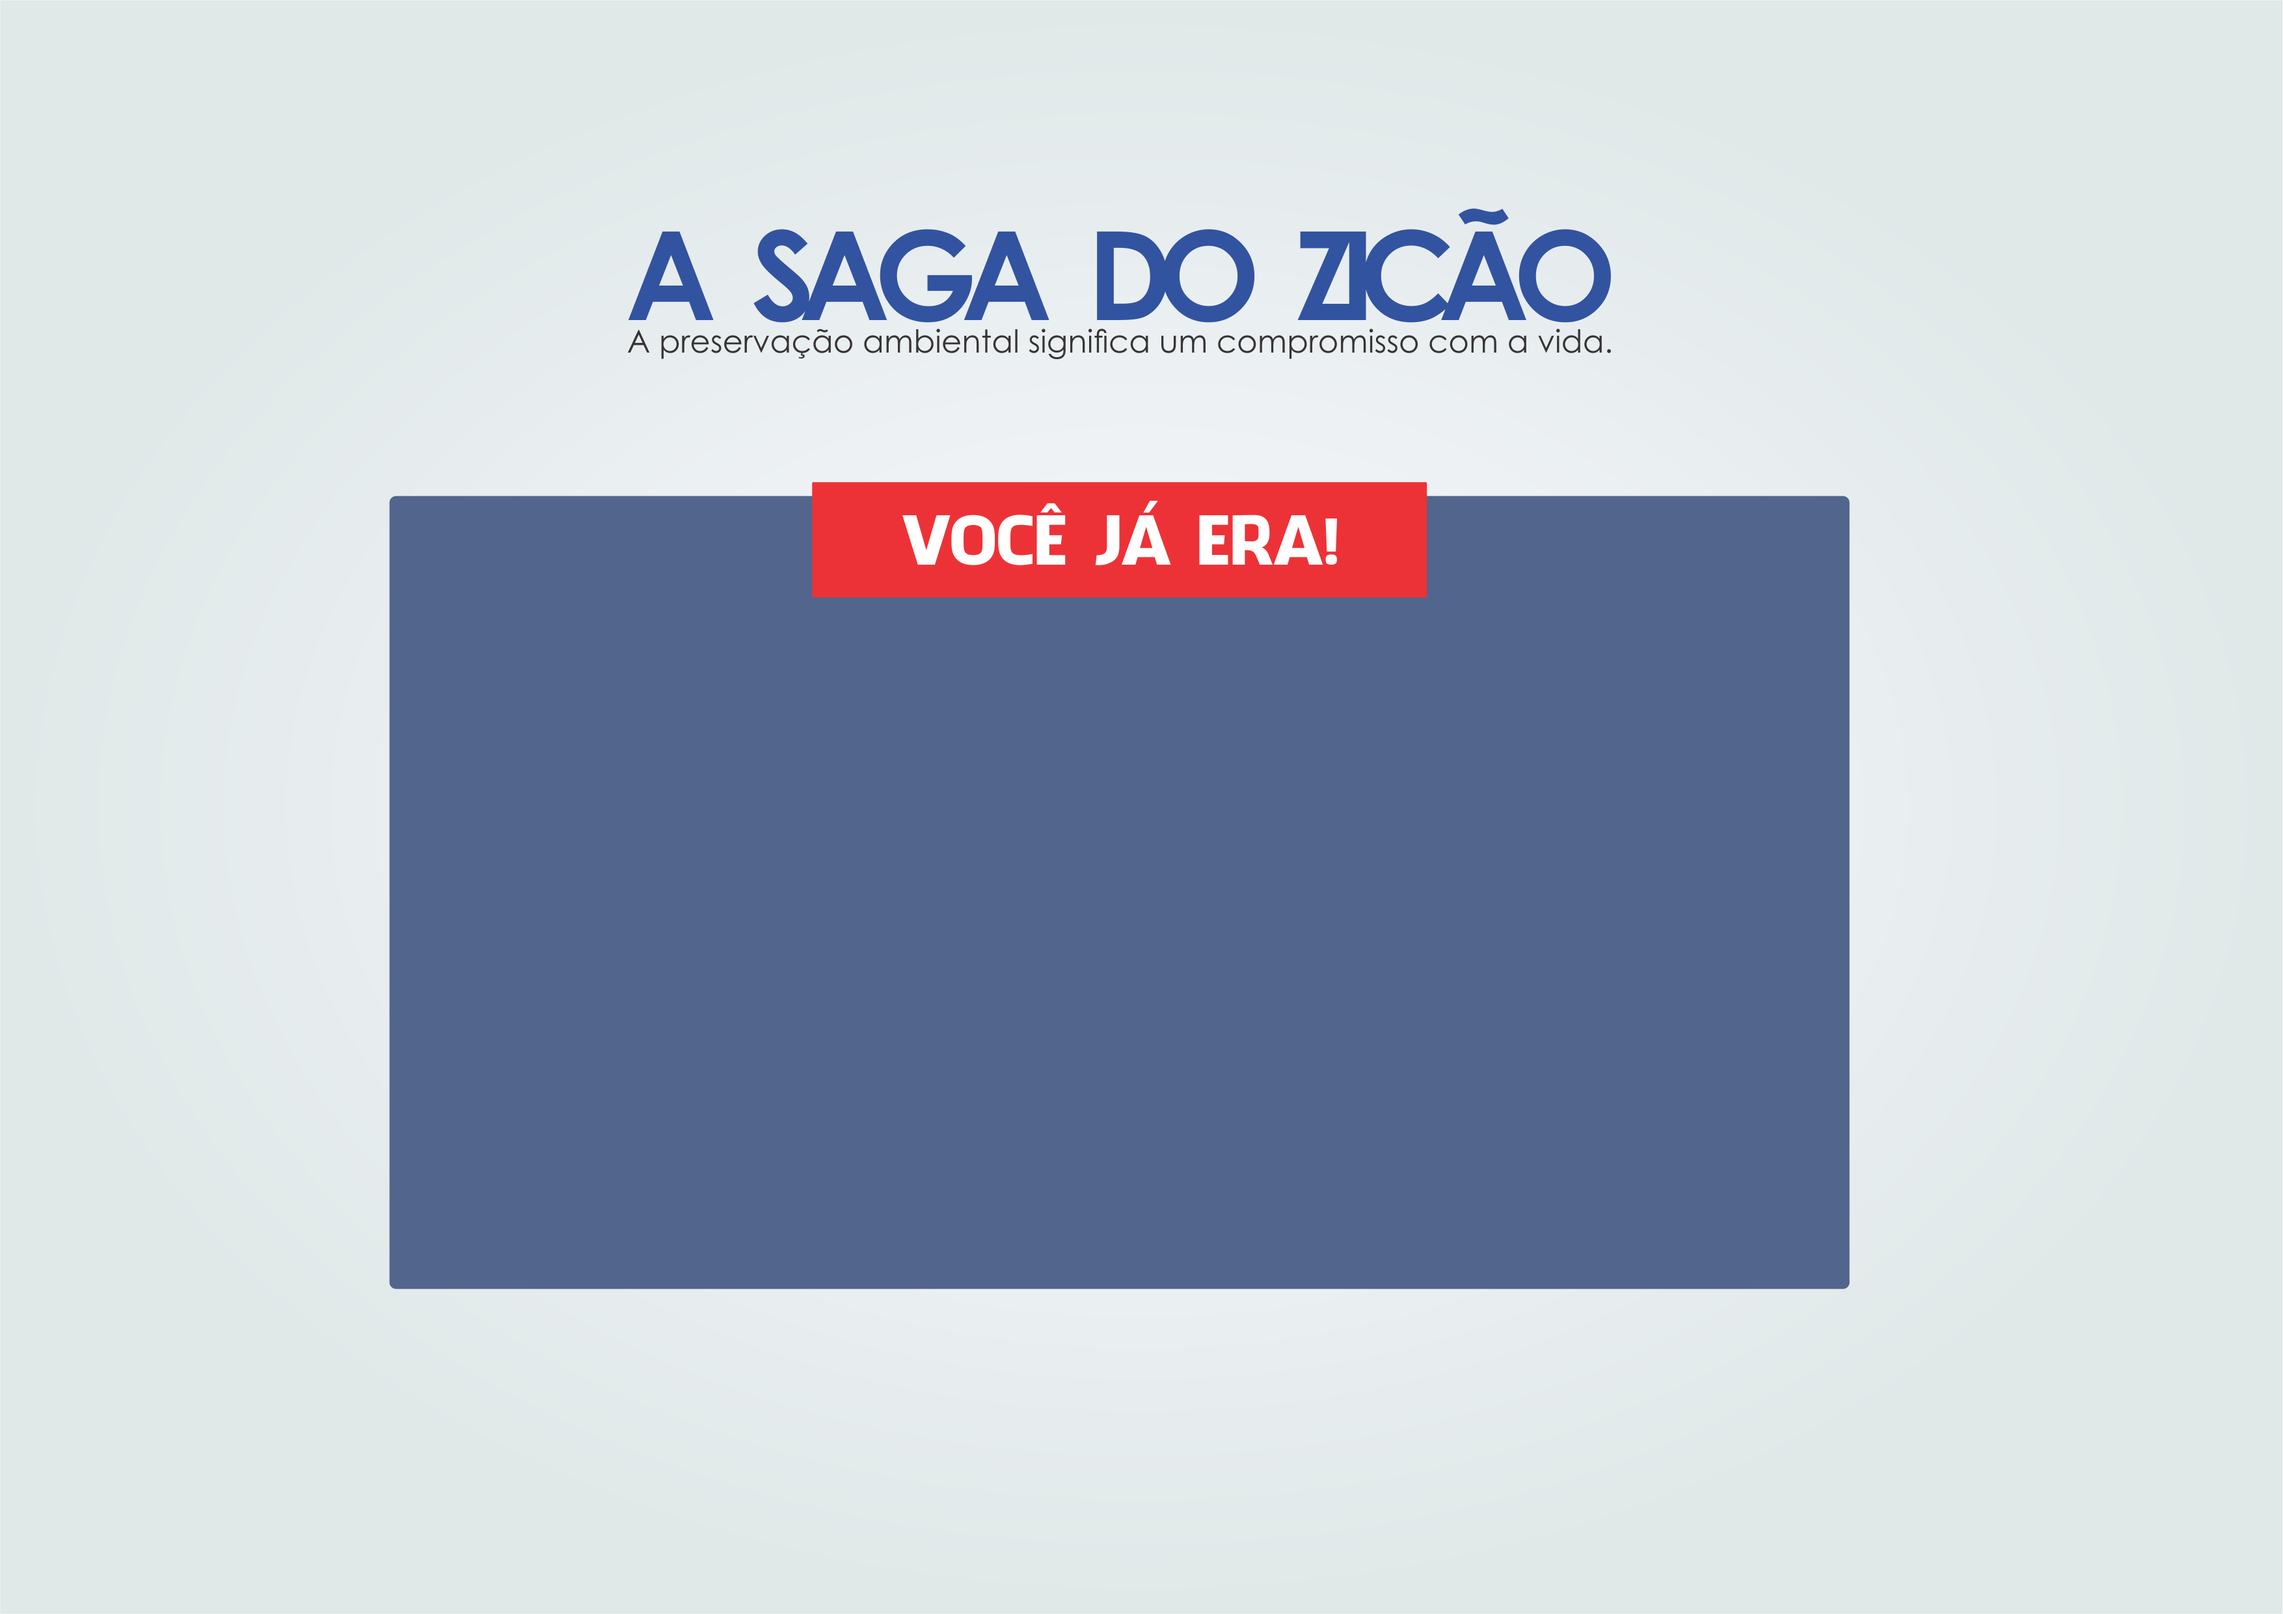
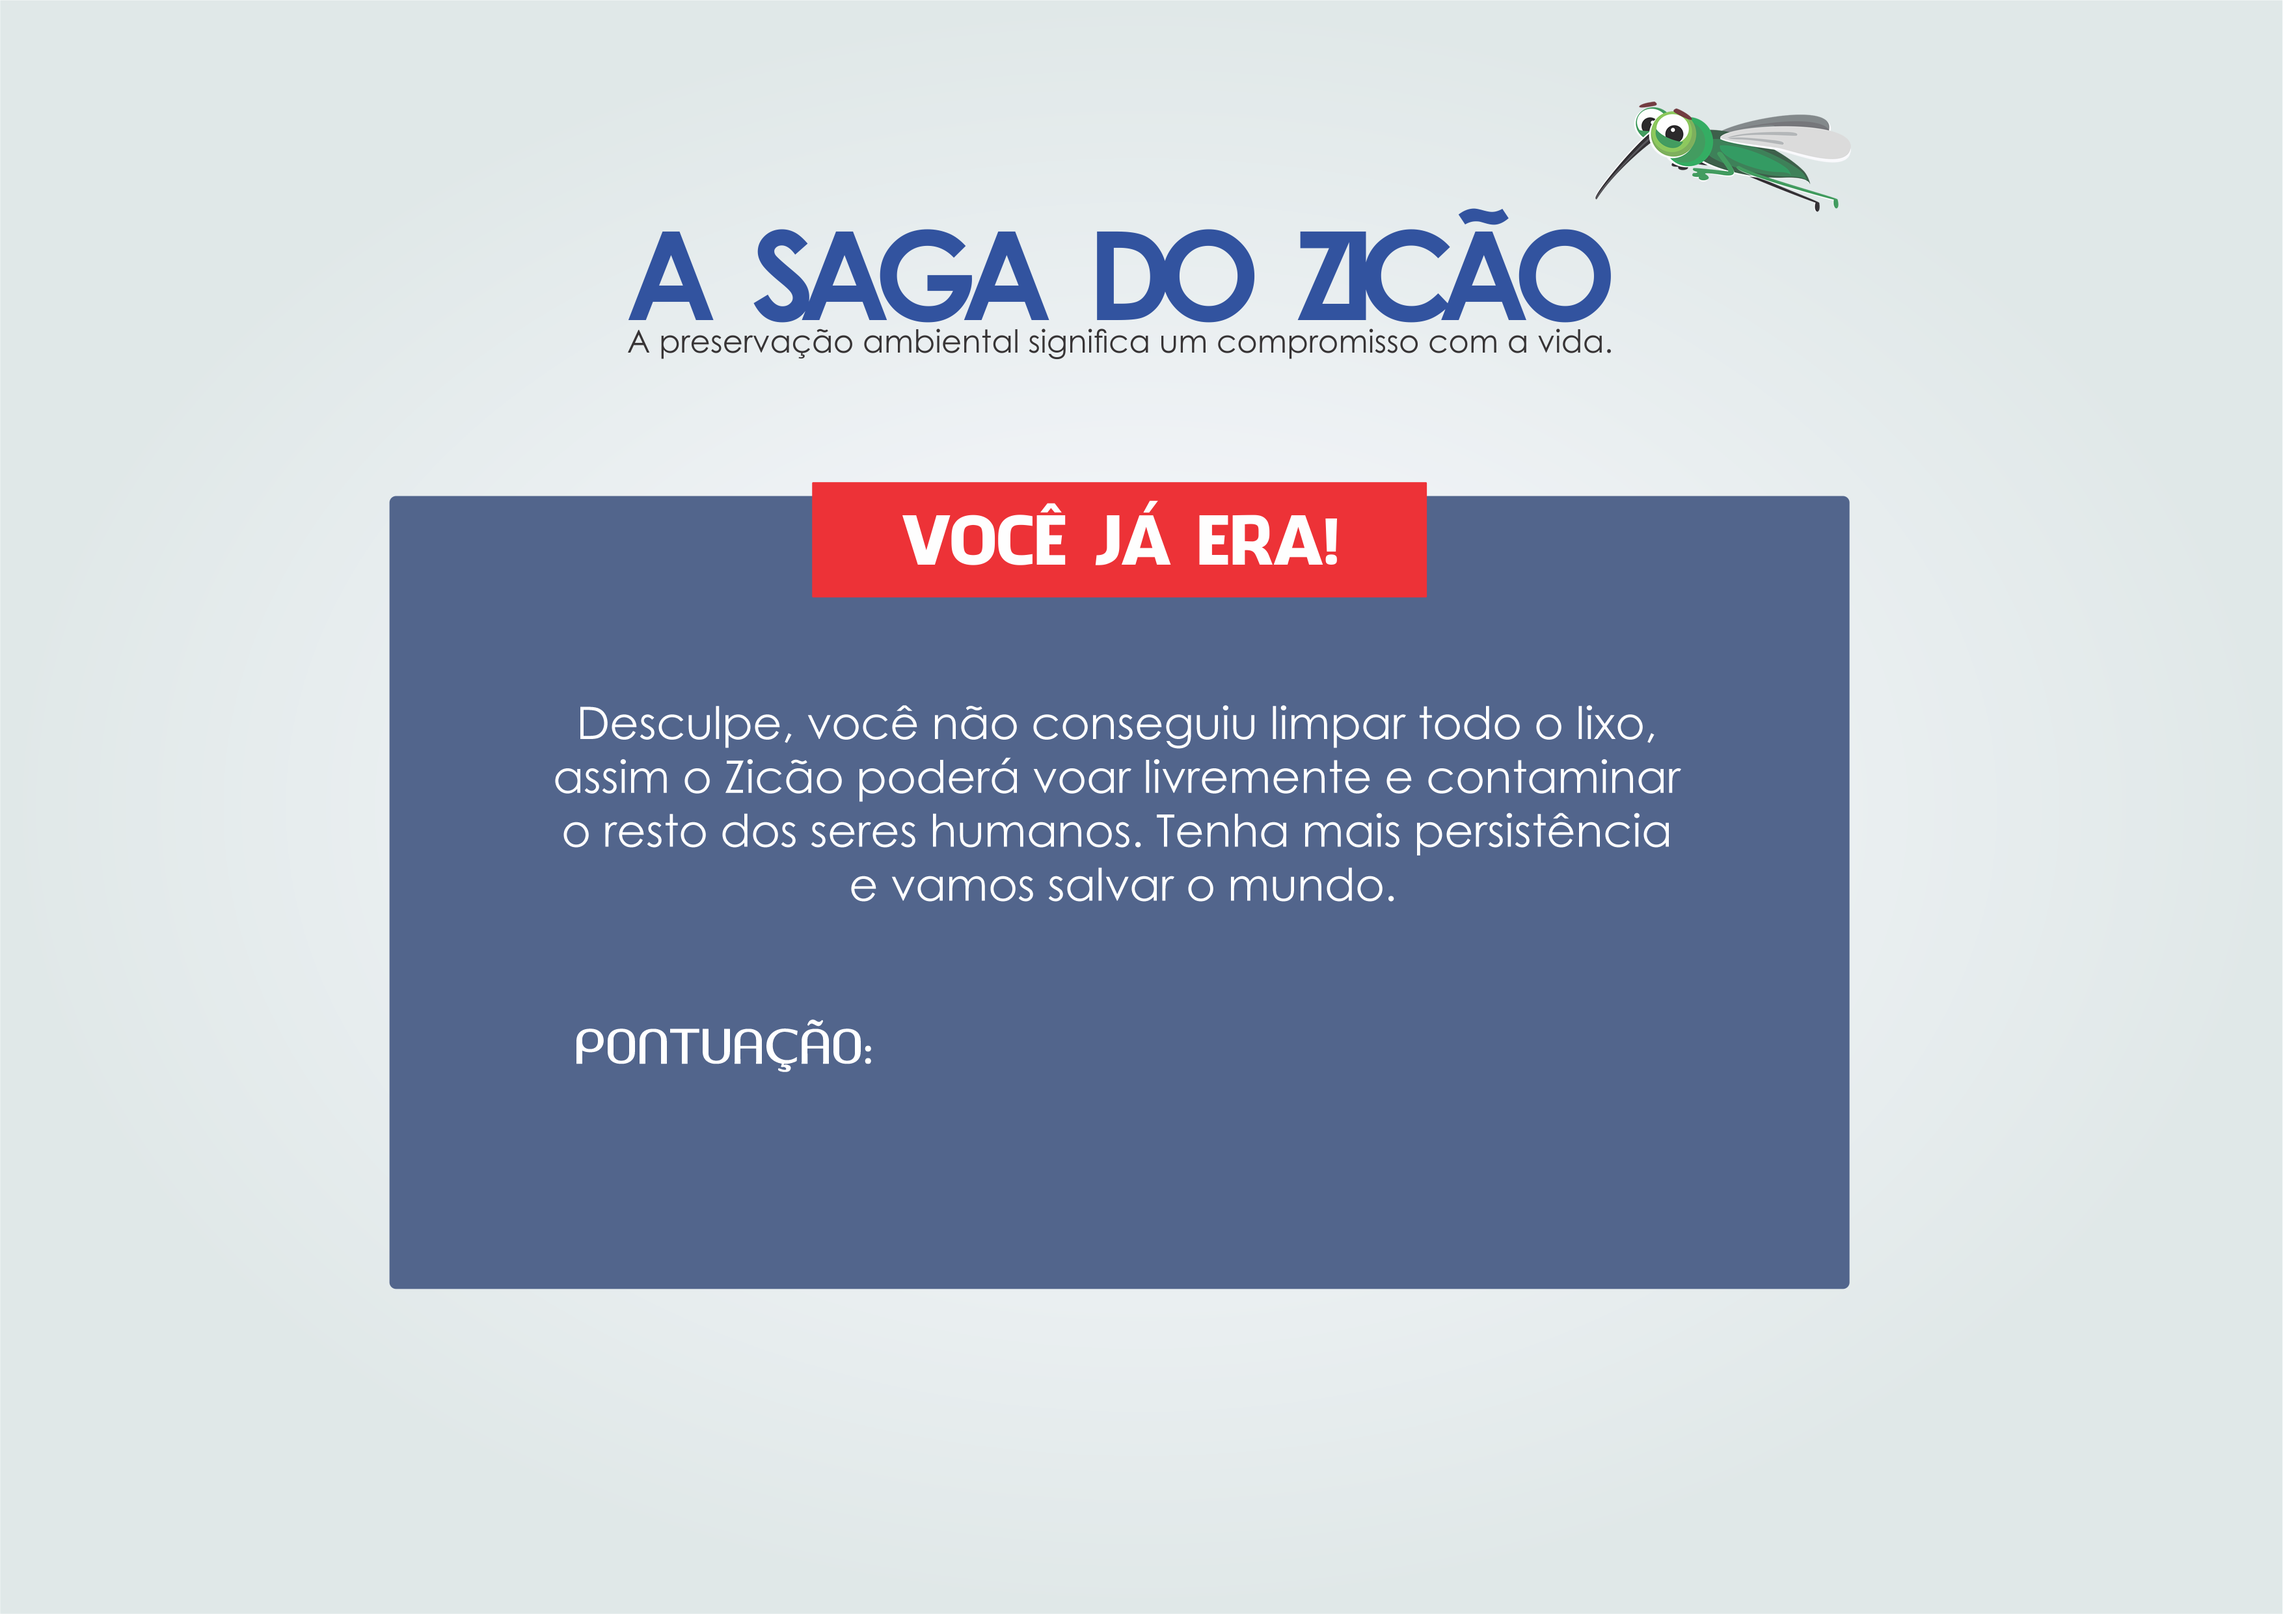
Concerto de Bugs

Changed region(s): [[0.2485, 0.4345, 0.7455, 0.5586], [0.7144, 0.0621, 0.8076, 0.1241], [0.2485, 0.6207, 0.3728, 0.6828]]

diff --git a/Assets/Scripts/PlayerScript.cs b/Assets/Scripts/PlayerScript.cs
@@ -53,25 +53,12 @@ public class PlayerScript : MonoBehaviour {
 
 	void OnCollisionEnter2D(Collision2D colisor){
 		if (colisor.gameObject.tag == "Enemy") {
-			/*
-			if(OpcoesScript.vida > 0  ){
+
+			 if(OpcoesScript.vida > 0  ){
 				OpcoesScript.vida--;
 				StartCoroutine(DestroyShip());
-			}else{
+			}else
 				Application.LoadLevel(4);
-				OpcoesScript.vida = 2;
-				OpcoesScript.score = 0;
-			}*/
-
-			if(OpcoesScript.vida > 0  ){
-				OpcoesScript.vida--;
-				StartCoroutine(DestroyShip());
-			}else{
-				Application.LoadLevel(4);
-				OpcoesScript.vida = 2;
-				OpcoesScript.score = 0;
-			}
-
 
 		}
 	}

diff --git a/Assets/Scripts/GameOverScript.cs b/Assets/Scripts/GameOverScript.cs
@@ -2,7 +2,9 @@
 using System.Collections;
 
 public class GameOverScript : MonoBehaviour {
+
 	public Texture botaoJogar;
+	private bool teste;
 
 	// Use this for initialization
 	void Start () {
@@ -14,7 +16,16 @@ public class GameOverScript : MonoBehaviour {
 	
 	}
 
+	
+
+
 	void OnGUI(){
+
+		GUIStyle style = new GUIStyle();
+		style.fontSize = 21;
+
+		GUI.Label (new Rect(425,389,200,40), OpcoesScript.score.ToString(),style);
+
 		if (GUI.Button (new Rect (355, 450, 289, 56), botaoJogar, GUIStyle.none)) {
 			Application.LoadLevel(3);
 			
